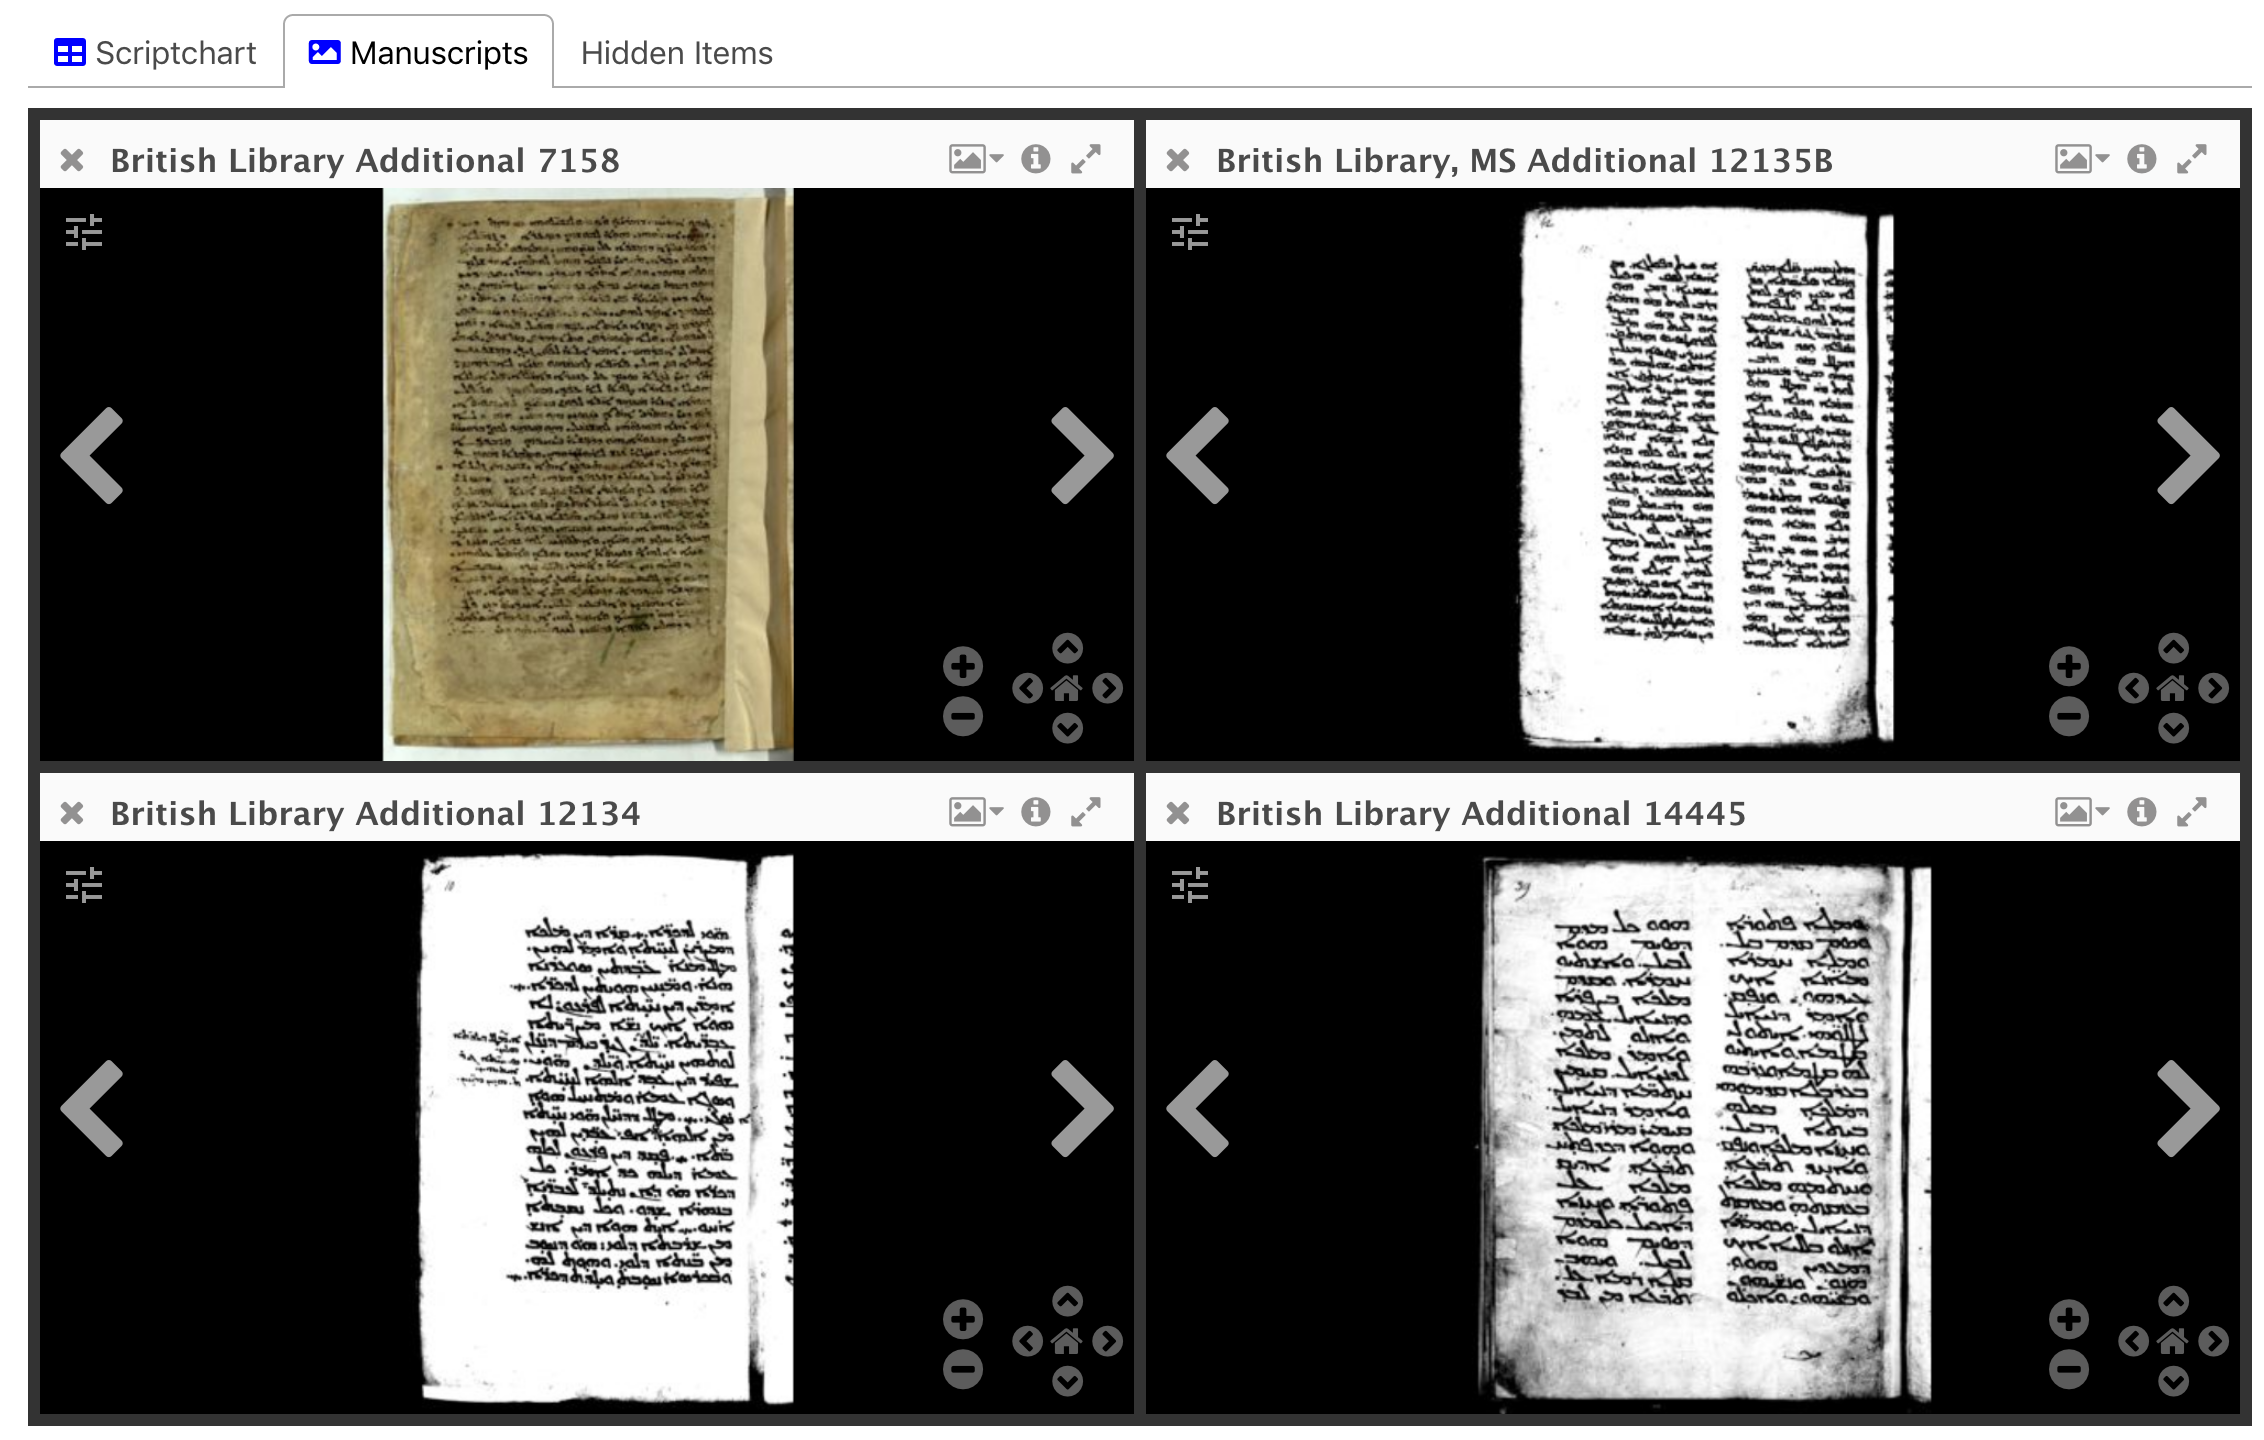
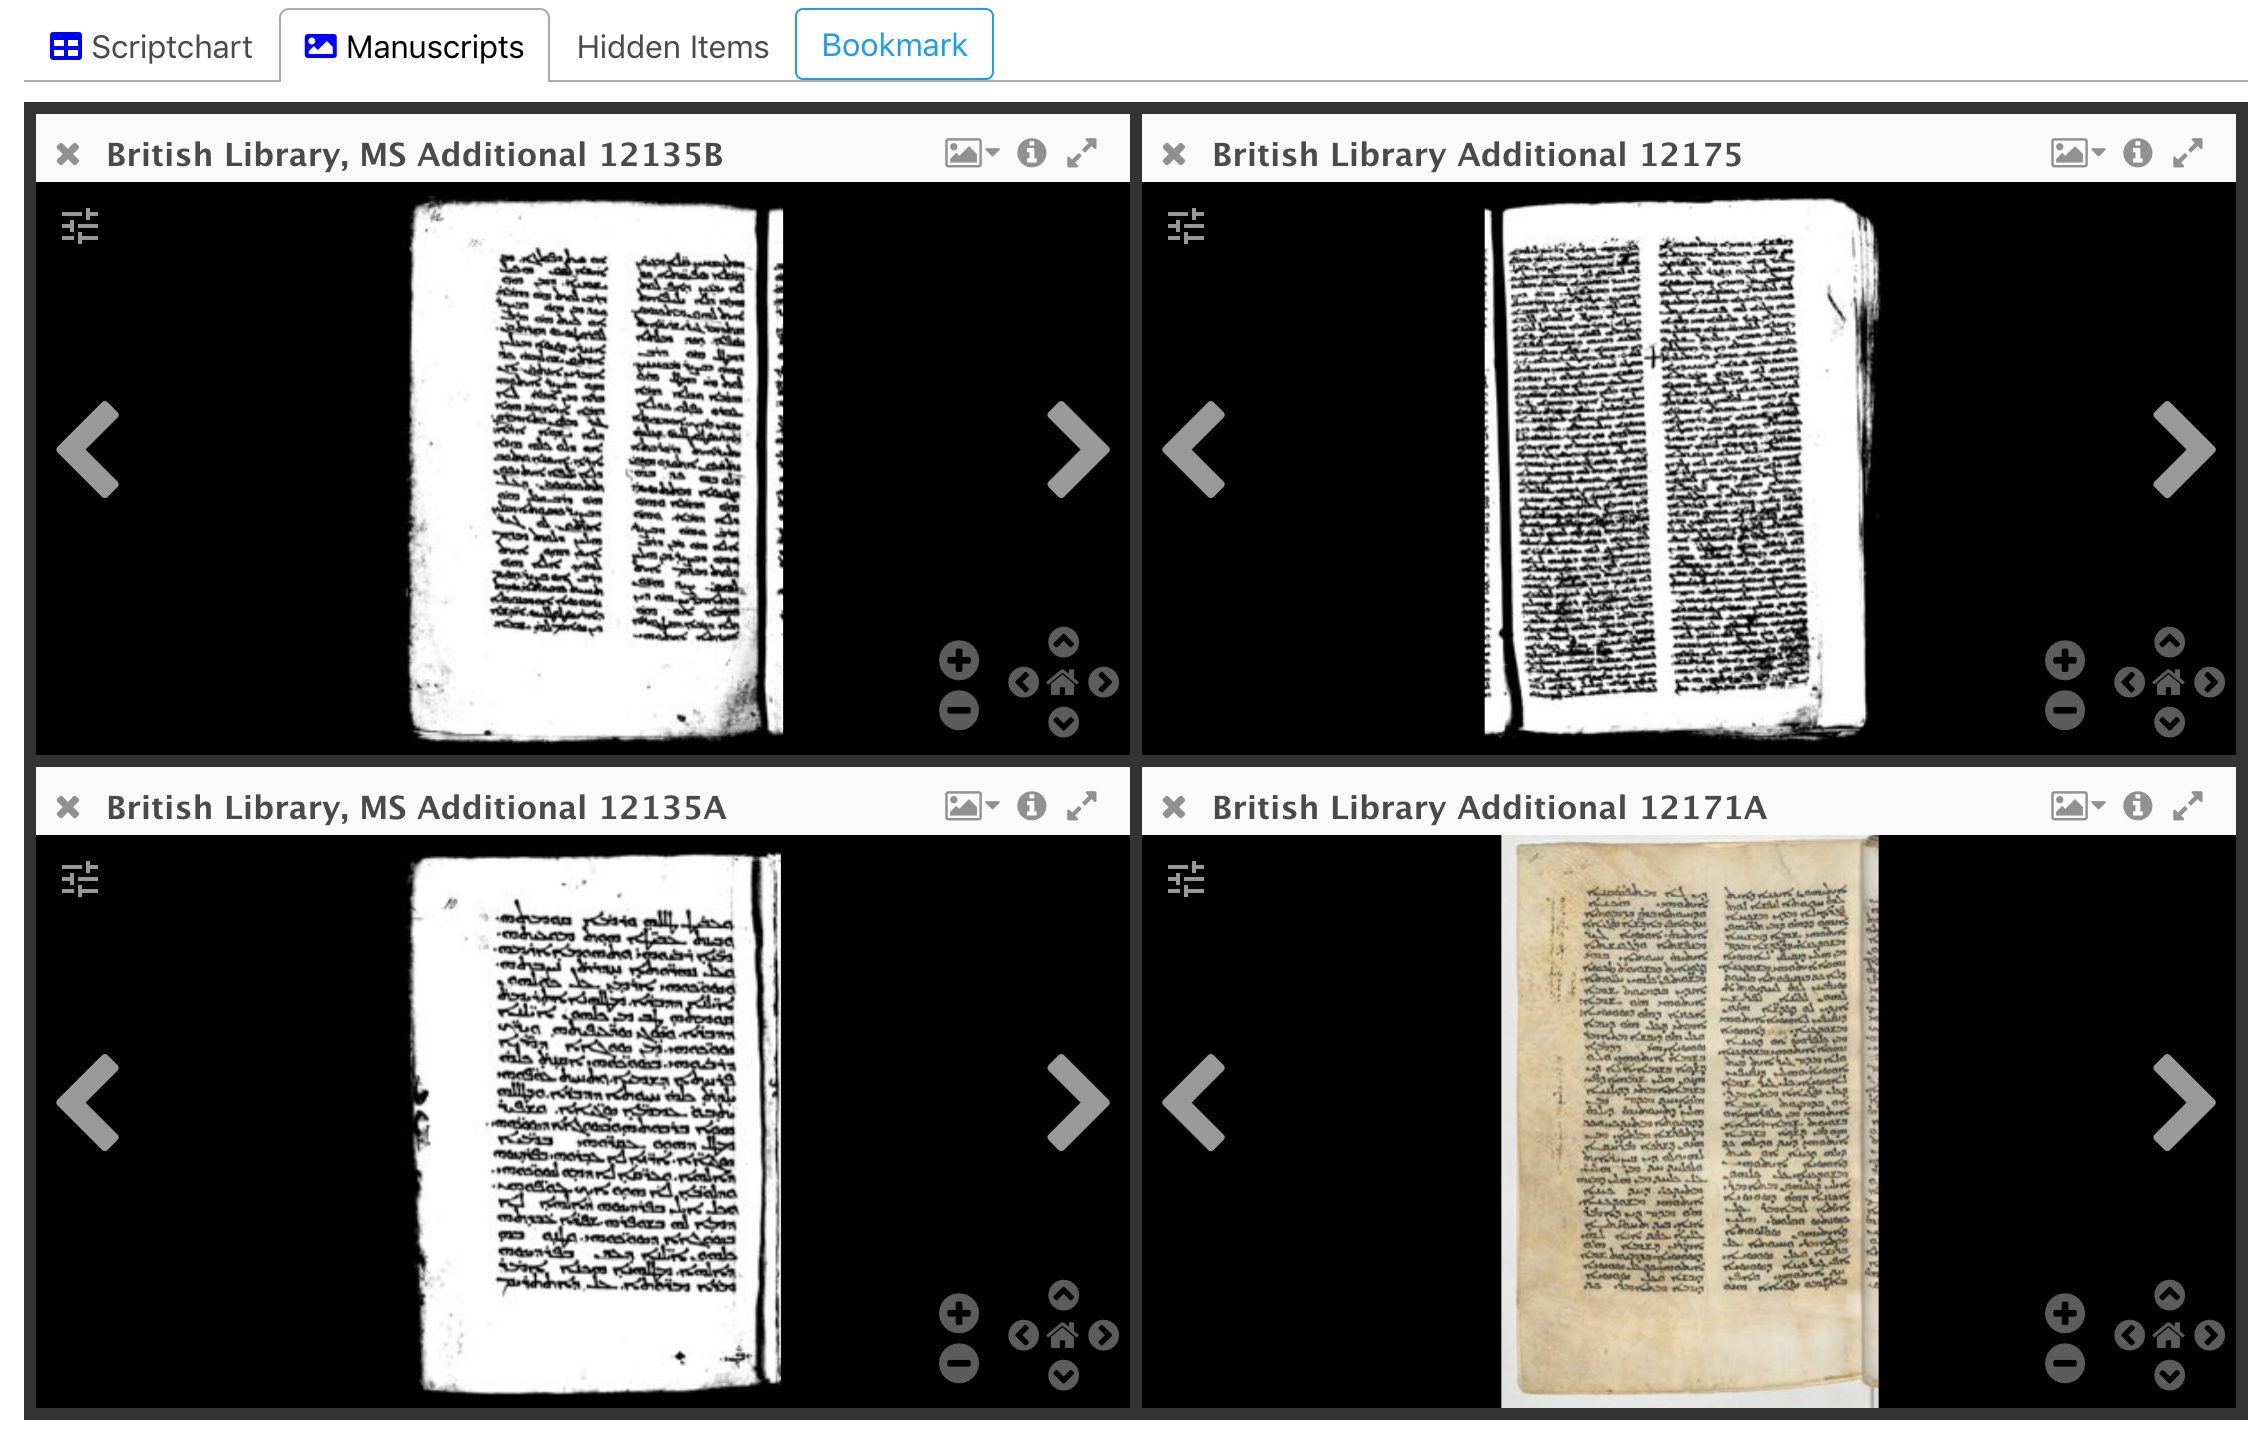
Update help images and text to include bookmark functionality

Changed region(s): [[0.0, 0.0, 1.0, 1.0]]

diff --git a/src/guide.md b/src/guide.md
@@ -31,7 +31,7 @@ When working with the scriptchart or the manuscript viewer, you can collape the 
 
 ## Scriptchart
 
-Within the scriptchart, letters and manuscripts will appear in a table ordered by the "Viewer options." If you want to reorder the letters or manuscripts, you can drag the columns or rows into whatever order you choose. 
+Within the scriptchart, letters and manuscripts will appear in a table ordered by the "Viewer options." If you want to reorder the letters or manuscripts, you can drag the columns or rows into whatever order you choose. To create a shareable URL for your scriptchart, click "Bookmark" in the tabs above the scriptchart.  
 
 ![Scriptchart](assets/img/help-images/scriptchart.png){: .help-image-lg}
 
